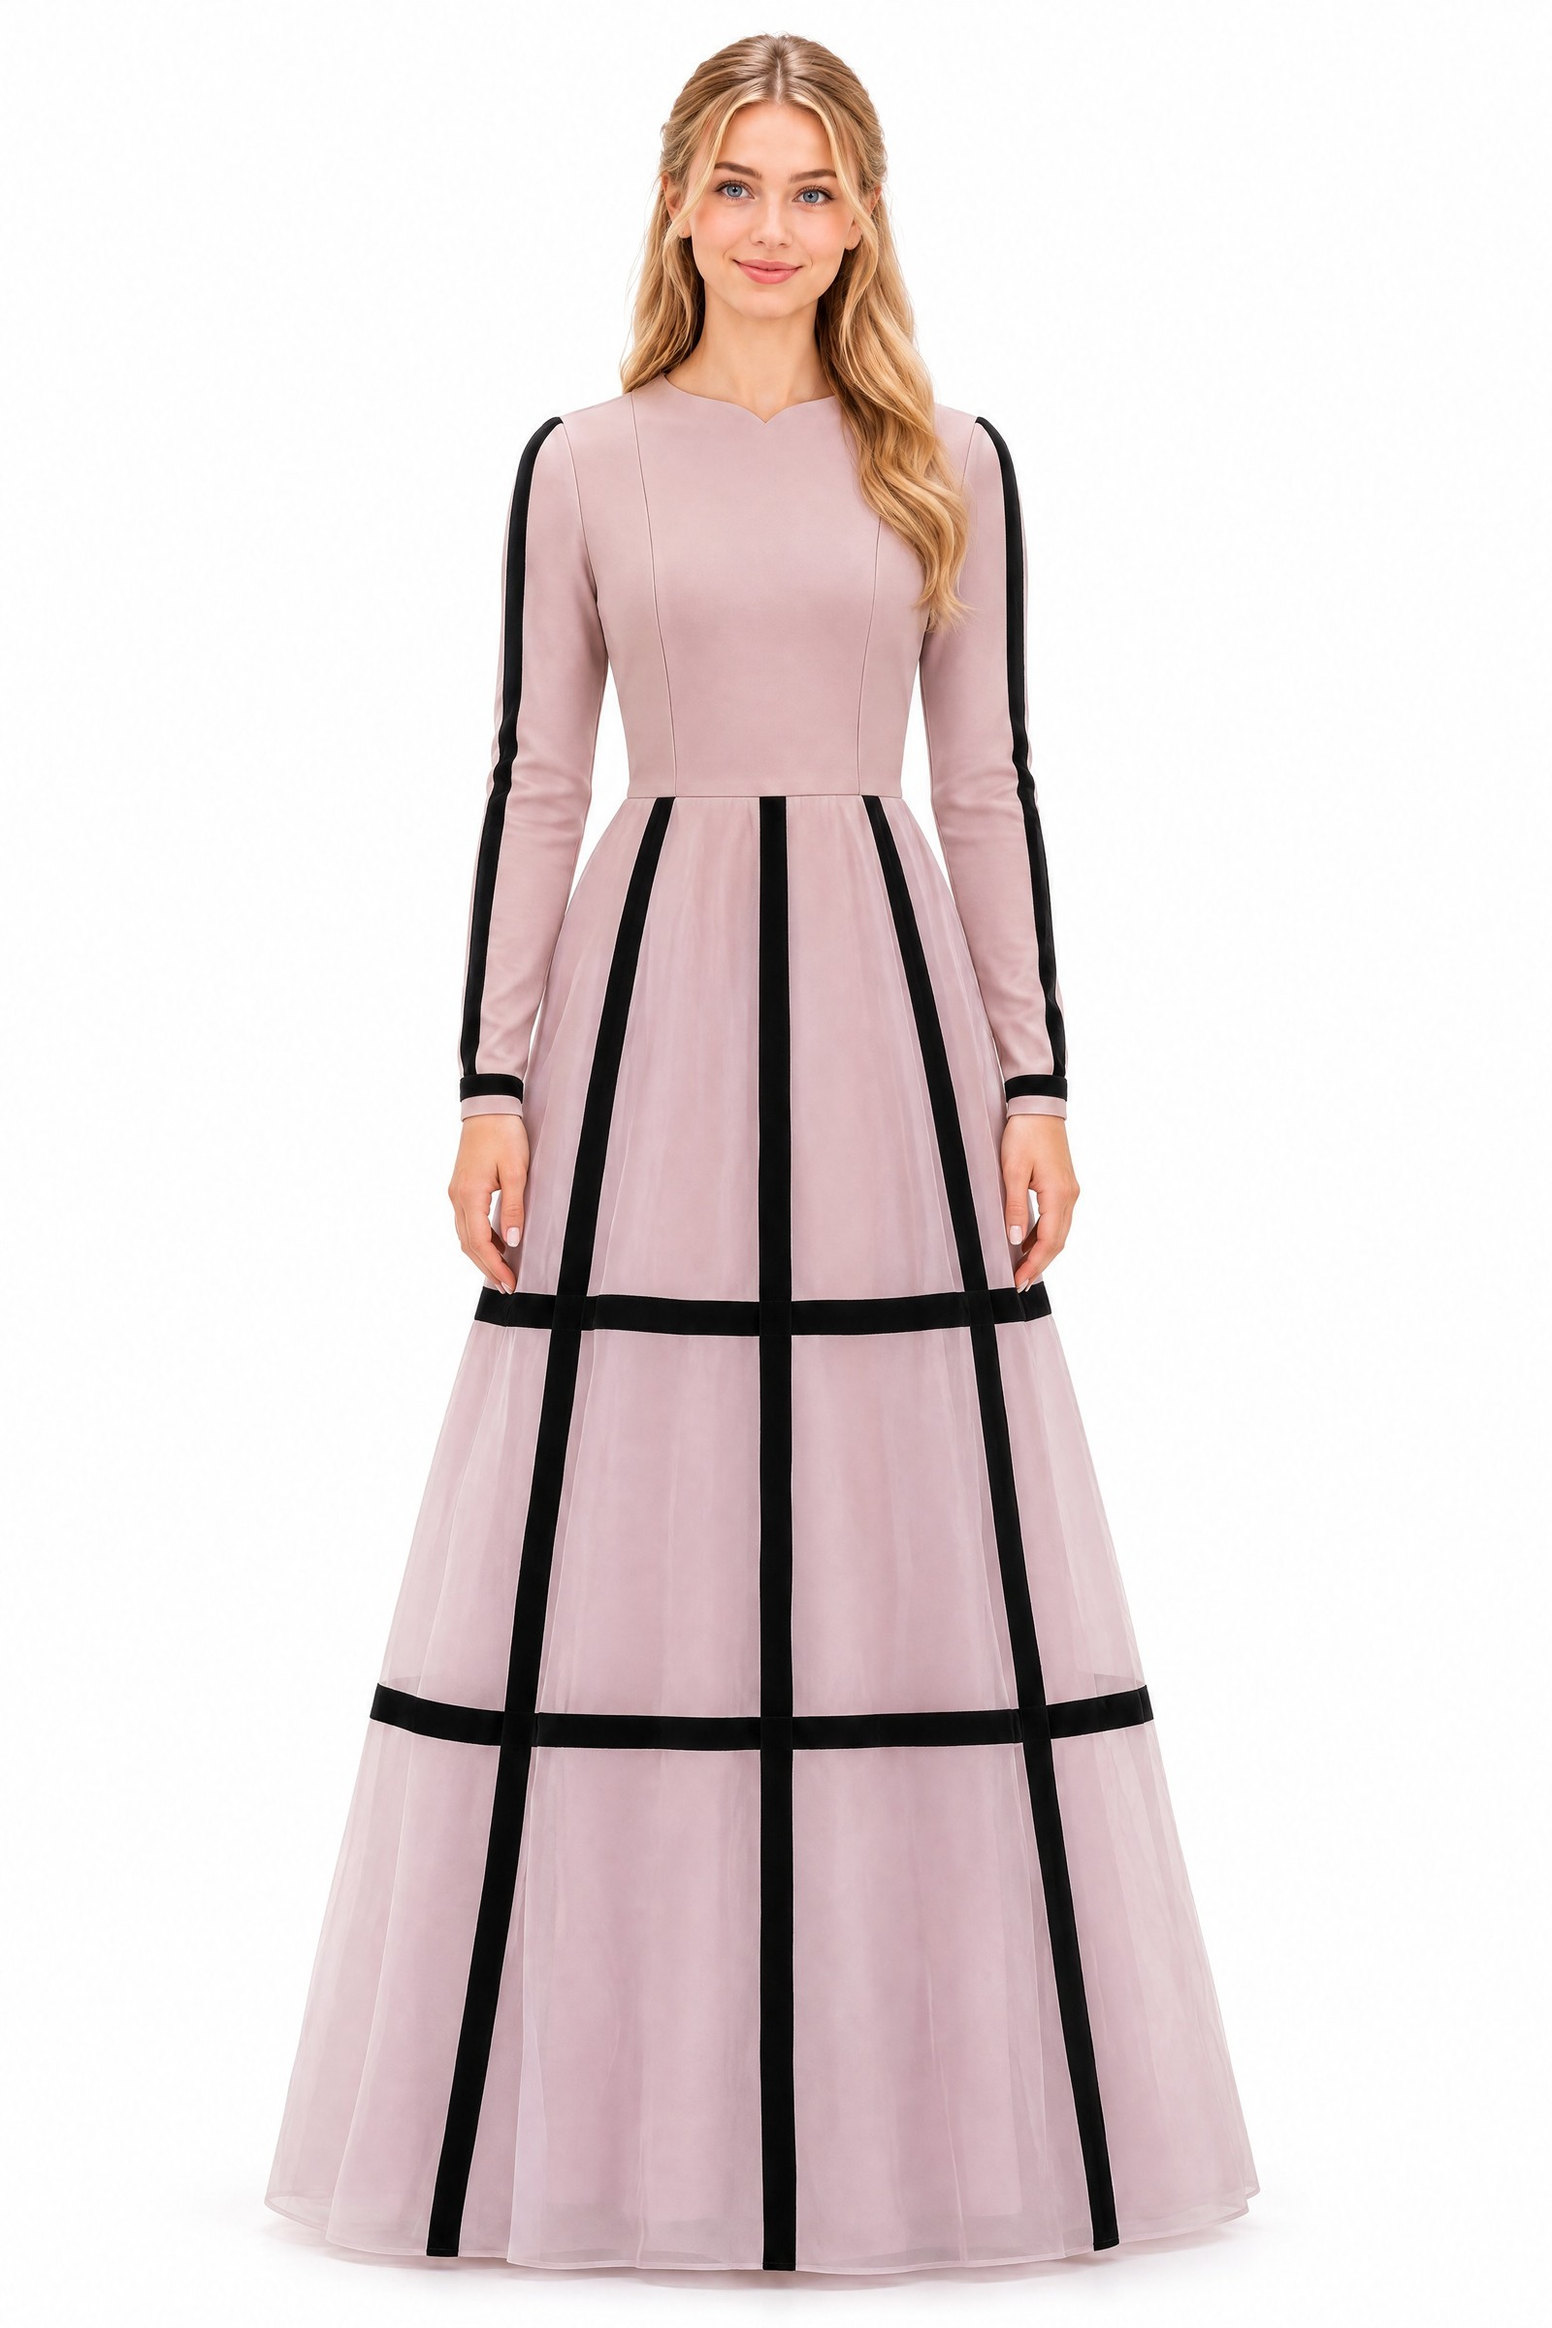
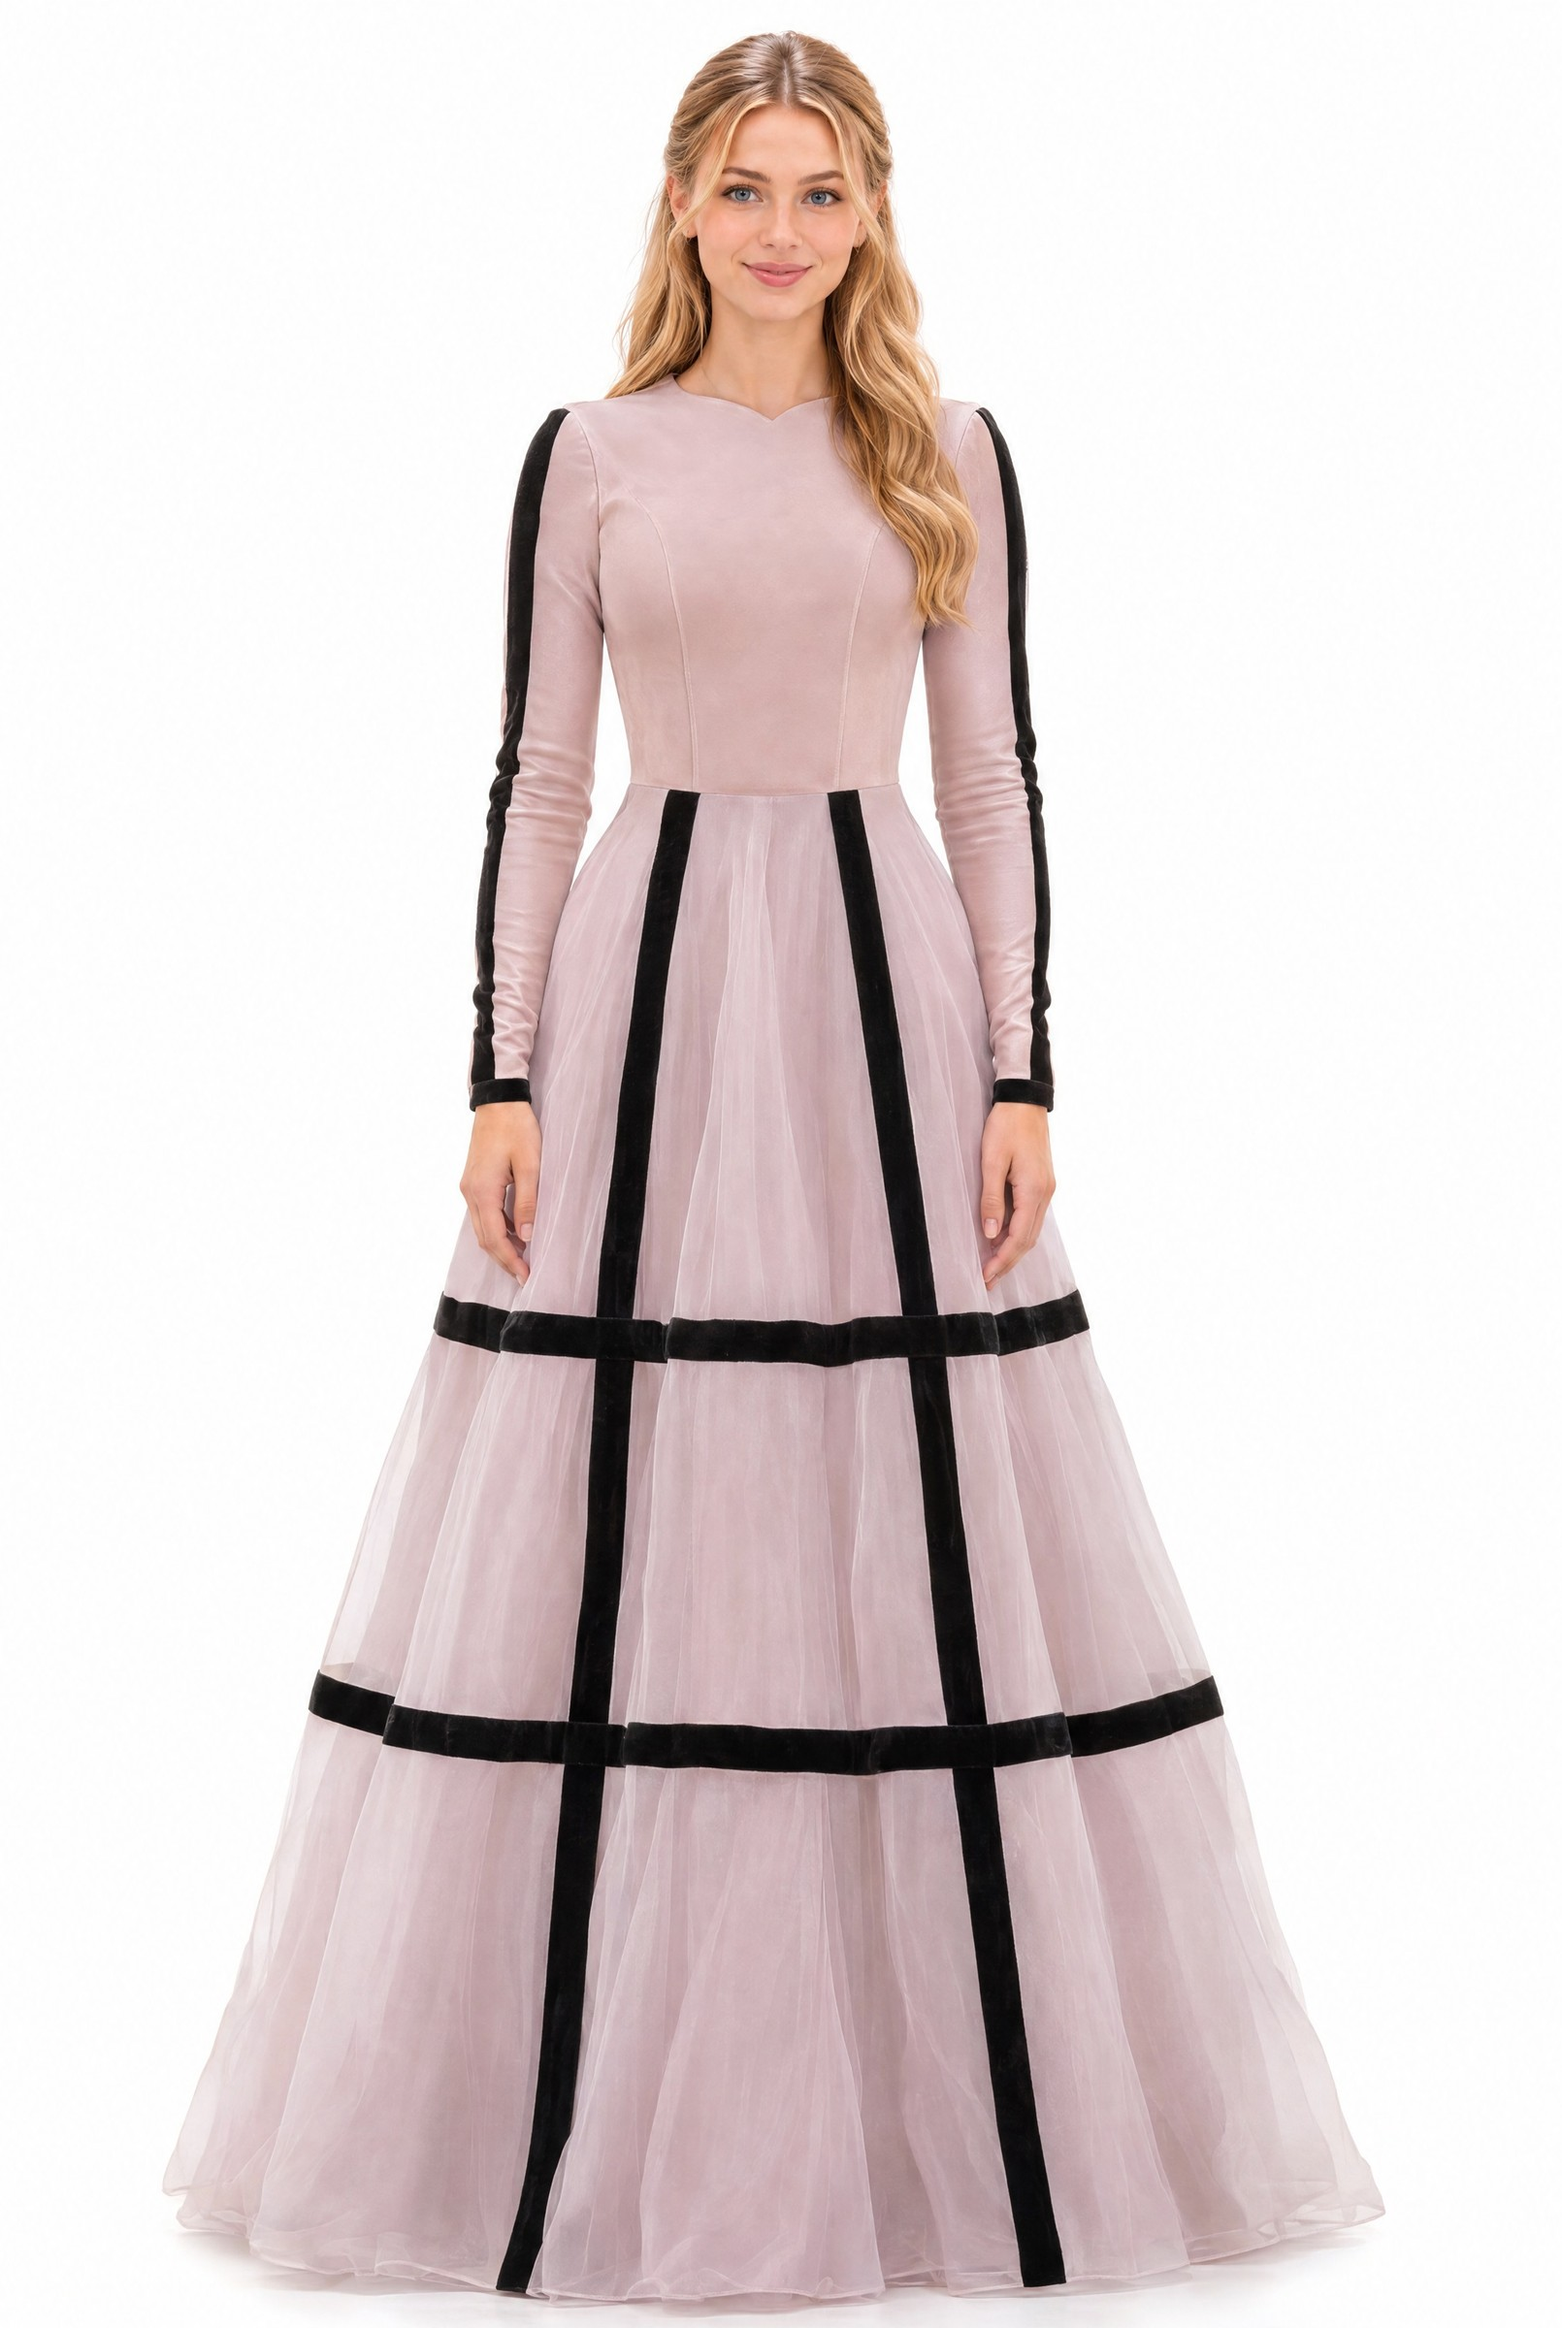
בדיקת מרקם, דגם 12 דוגמנית 1 באיכות מקסימלית והנחיות סבב 4
Claude-Session: https://claude.ai/code/session_013bHfeojD3ywY6KMPCookv2

Changed region(s): [[0.0938, 0.0, 0.9062, 1.0]]

diff --git a/tools/AGENT_BRIEF_R2.md b/tools/AGENT_BRIEF_R2.md
@@ -63,3 +63,13 @@
 - להוסיף לכל פרומפט: "Skin: clear, even, natural fair skin tone exactly like image 1; no red or orange blotches, no uneven flush, no mottled patches, no added freckles, no orange or yellow colour cast on the face; soft natural studio skin."
 - קריטריון חובה נוסף: חיתוך הפנים ברזולוציה מלאה (בערך `0.36 0.01 0.64 0.20` ב־crop.py) והשוואה ללוח הדמות. תמונה עם כתמים, סומק לא אחיד או גוון כתום על הפנים נפסלת, גם אם השמלה מושלמת.
 - בדוח: לכתוב לכל שוט אם הפנים נקיות מכתמים (כן/לא).
+
+## תוספת (18.11): סבב 4 — איכות מקסימלית, לוח חדש לילדה הגדולה, החלטות המשתמשת
+- **מרקם:** המשתמשת פסלה את "מרקם הרינדור של GPT" על העור. הפתרון שנבדק ועובד: `extraSettings: {"quality": "max", "thinkingLevel": "high"}` יחד עם `width: 3392, height: 5056` (בלי `resolution` ובלי `aspectRatio`). הפלט בפועל 2637×3931, והעור יוצא חלק. עלות: 940 קרדיטים לתמונה, לכן `count: 2` ולא יותר, ולא יותר משני סבבים.
+- **לא להשתמש ב־`images_skin_enhancer`:** בבדיקה הוא שינה את הפנים, הוסיף נזם ועגילים והשחים את העור.
+- להוסיף לכל פרומפט: "shot on a professional medium-format camera, natural photographic detail" ואת משפט ה־Skin בנוסח: "Skin: clear, even, smooth, soft natural skin exactly like image 1, real photographic skin with no painterly, grainy or mottled rendered texture, no blotches, no added freckles, no orange cast."
+- קריטריון חובה: חיתוך הפנים ב־100% (פיקסל לפיקסל). עור מגורען/ציורי = פסילה.
+- **לוח חדש לילדה הגדולה (מאושר 18.11):** `rgd1Edrxtc` (עותק: `review/boards/board_big_v2.jpg`). אותה ילדה ואותו גוון, עור חלק ונמשים עדינים מאוד. הלוח הישן `DoJuqZRpcl` לא בשימוש. גוון העור בתוצאה: כמו בלוח החדש, לא חיוור יותר ולא שזוף יותר.
+- **תסרוקות הילדה הגדולה:** שונות בכל דגם, לפי הטבלה למעלה, כולל אקססוריז.
+- **פתח צוואר:** החוד הקטן בתחתית שקע הלב מאושר ואינו פוסל. פתח לב נדרש כשהוא מופיע בגזרת השמלה.
+- **נפח אצל הנשים:** כשבצילום החצאית רחבה, היא צריכה לצאת רחבה ונפוחה ("standing out wide like a ball skirt over a petticoat, at least as wide and full as in image N").
